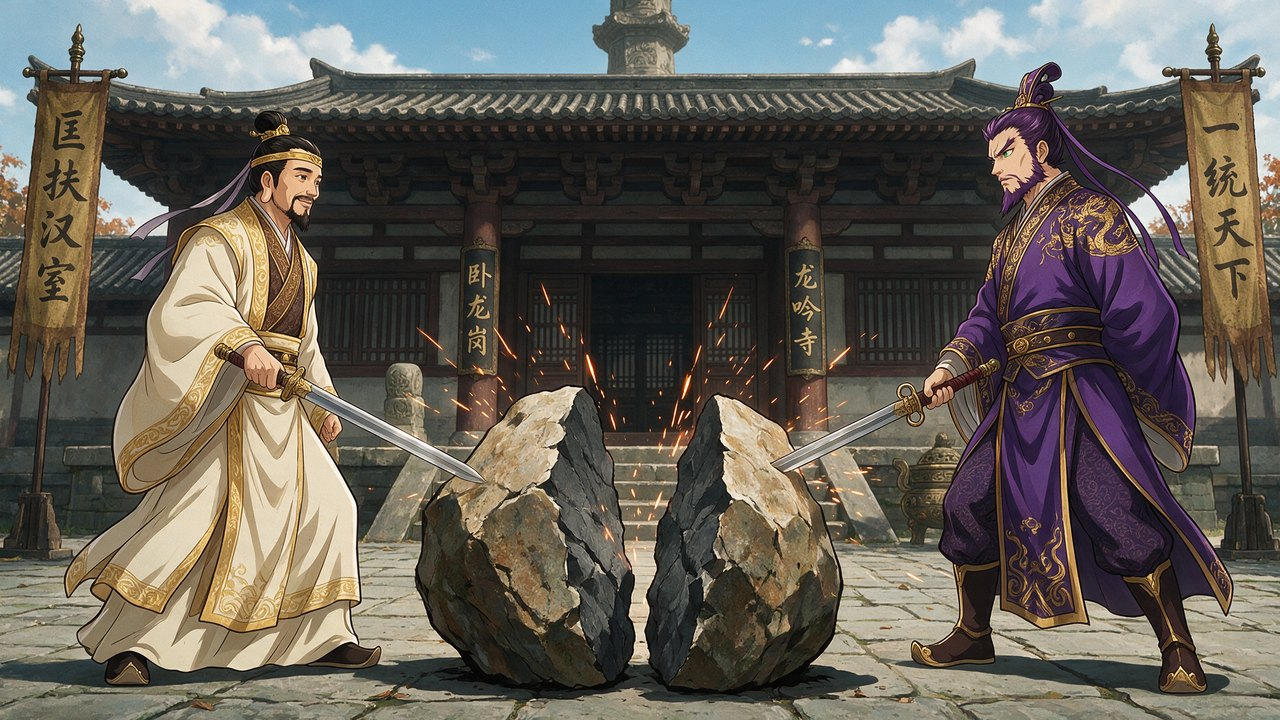
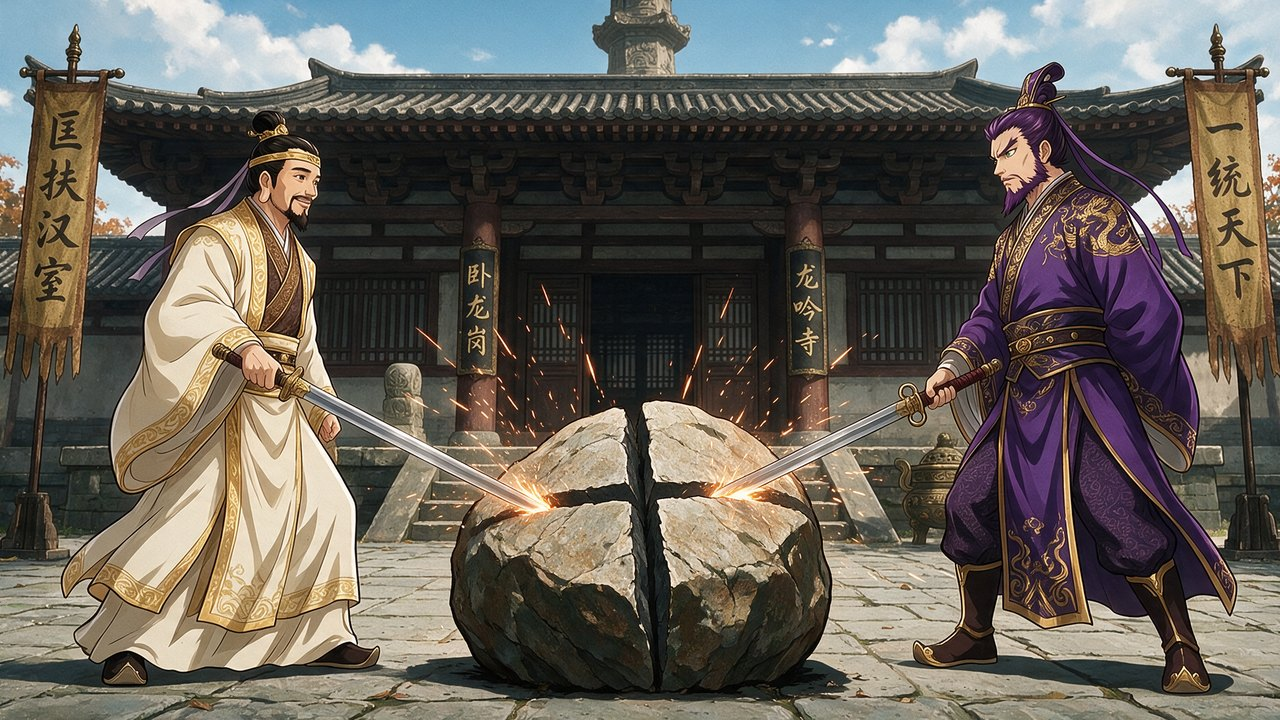
gl_stone: one boulder cut in a cross (十) by Liu Bei's and Sun Quan's strokes, in place of two split halves (apo110: the cross cut didn't read); an edit of the same still
Claude-Session: https://claude.ai/code/session_01CG7crrkzqt1vmaeQ7L7w6w

diff --git a/tk-cutscene.js b/tk-cutscene.js
@@ -724,7 +724,7 @@ const WorldCutscene = {
   // the prop atlas (props, emote bubbles, gift icons), loaded once per game
   // the stills that exist (tools/gen_stills.py writes assets/tk/stills/stills.json), fetched once
   stillIndex() {
-    if (!this._stills) this._stills = fetch("assets/tk/stills/stills.json?v=28").then(r => r.ok ? r.json() : {}).catch(() => ({}));
+    if (!this._stills) this._stills = fetch("assets/tk/stills/stills.json?v=29").then(r => r.ok ? r.json() : {}).catch(() => ({}));
     return this._stills;
   },
   stillSrc(m) { return `assets/tk/stills/${m.file}?v=${m.made || ""}${m.look || ""}`; },   // a redone still is fetched anew

diff --git a/index.html b/index.html
@@ -30,7 +30,7 @@
 <script src="tk-world.js?v=302"></script>
 <script src="tk-items.js?v=10"></script>
 <script src="tk-feats.js?v=5"></script>
-<script src="tk-cutscene.js?v=71"></script>
+<script src="tk-cutscene.js?v=72"></script>
 <script src="tk-music.js?v=6"></script>
 <script src="tk-travel.js?v=16"></script>
 <script src="app.js?v=70"></script>
